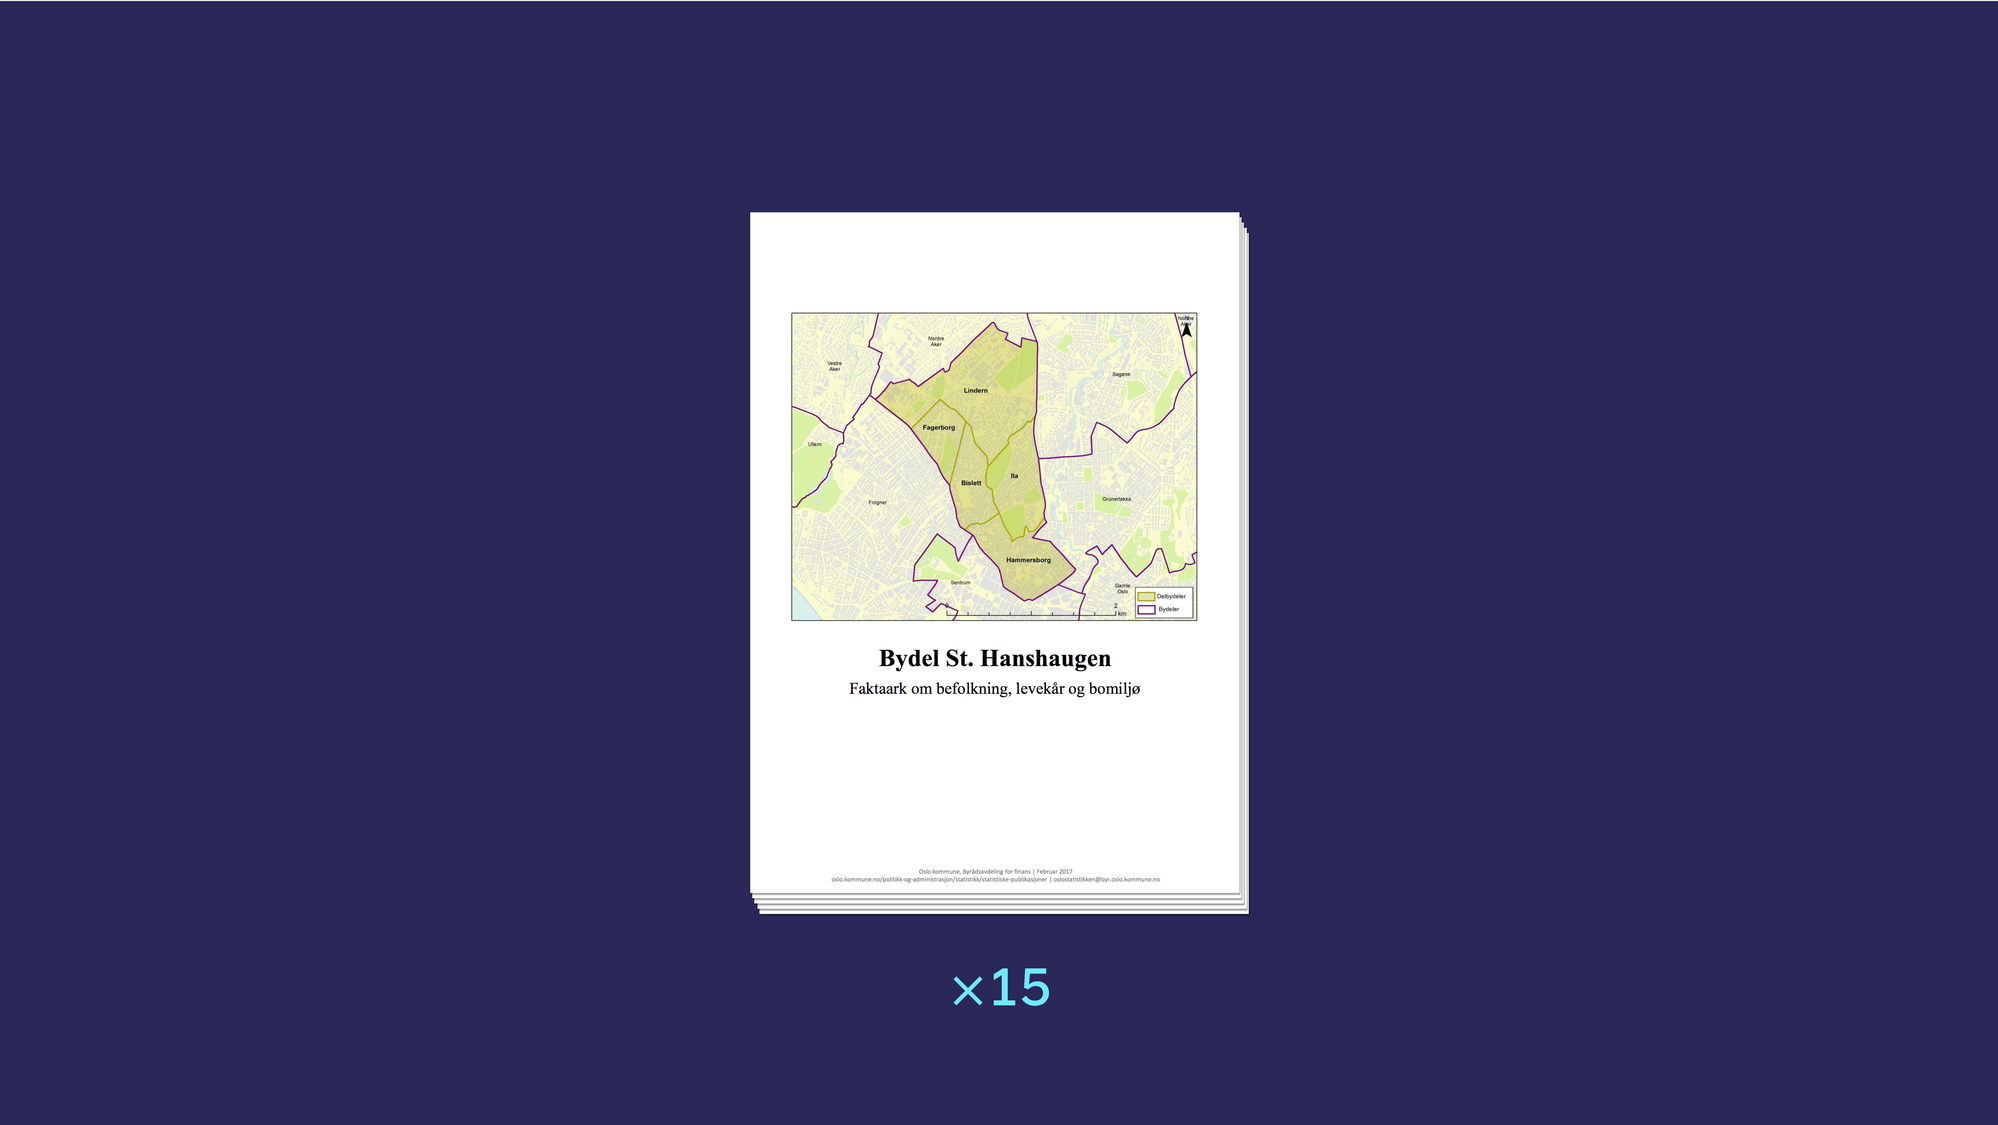
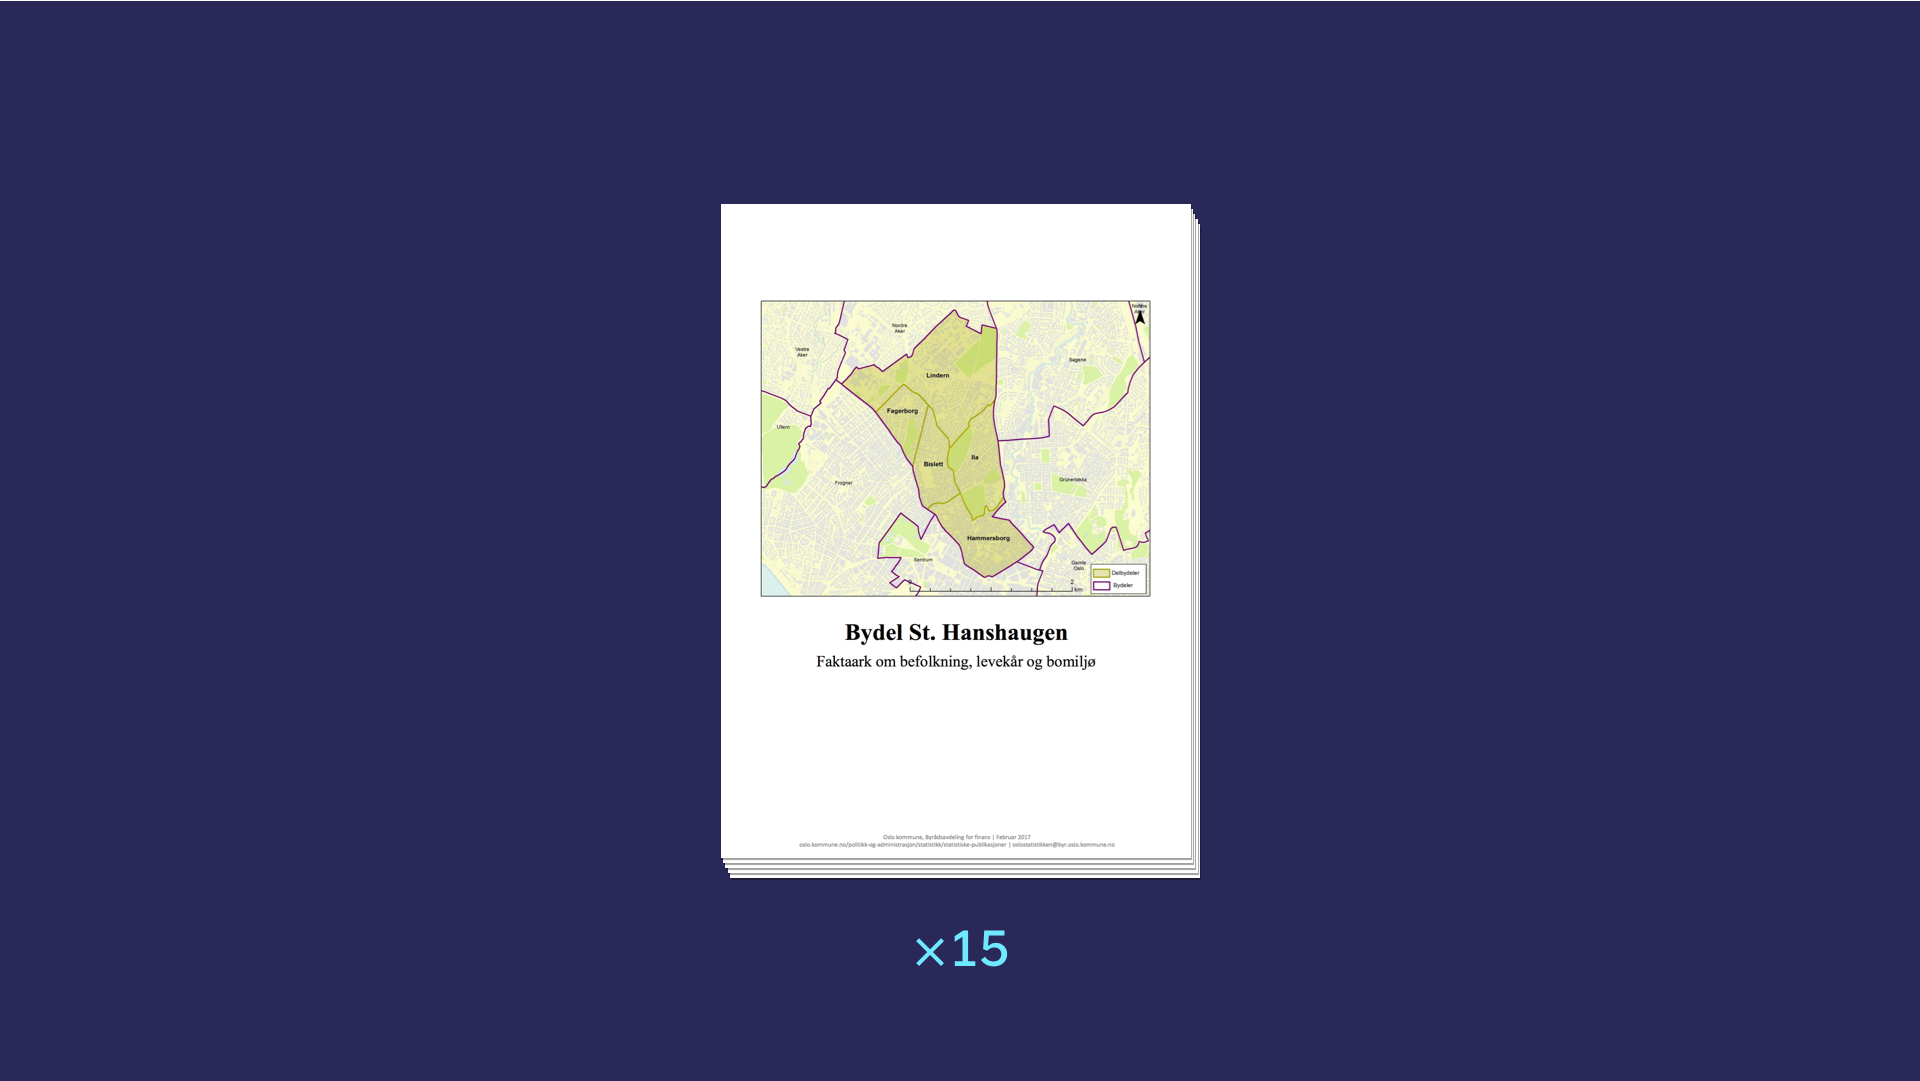
changed some images to better versions

Changed region(s): [[0.5938, 0.1832, 0.625, 0.8242], [0.4375, 0.58, 0.5625, 0.6105]]

diff --git a/src/views/What.vue b/src/views/What.vue
@@ -1,7 +1,7 @@
 <template>
   <section data-background-color="#2A2859" data-background-transition="none">
     <section data-background-color="#2A2859" data-transition="none">
-      <img :src="getUrl('/img/3.png')" height="100%" width="100%" />
+      <img :src="getUrl('/img/hva.png')" height="100%" width="100%" />
     </section>
     <section data-background-color="#2A2859" data-transition="none">
       <img :src="getUrl('/img/3-1.png')" height="100%" width="100%" />
